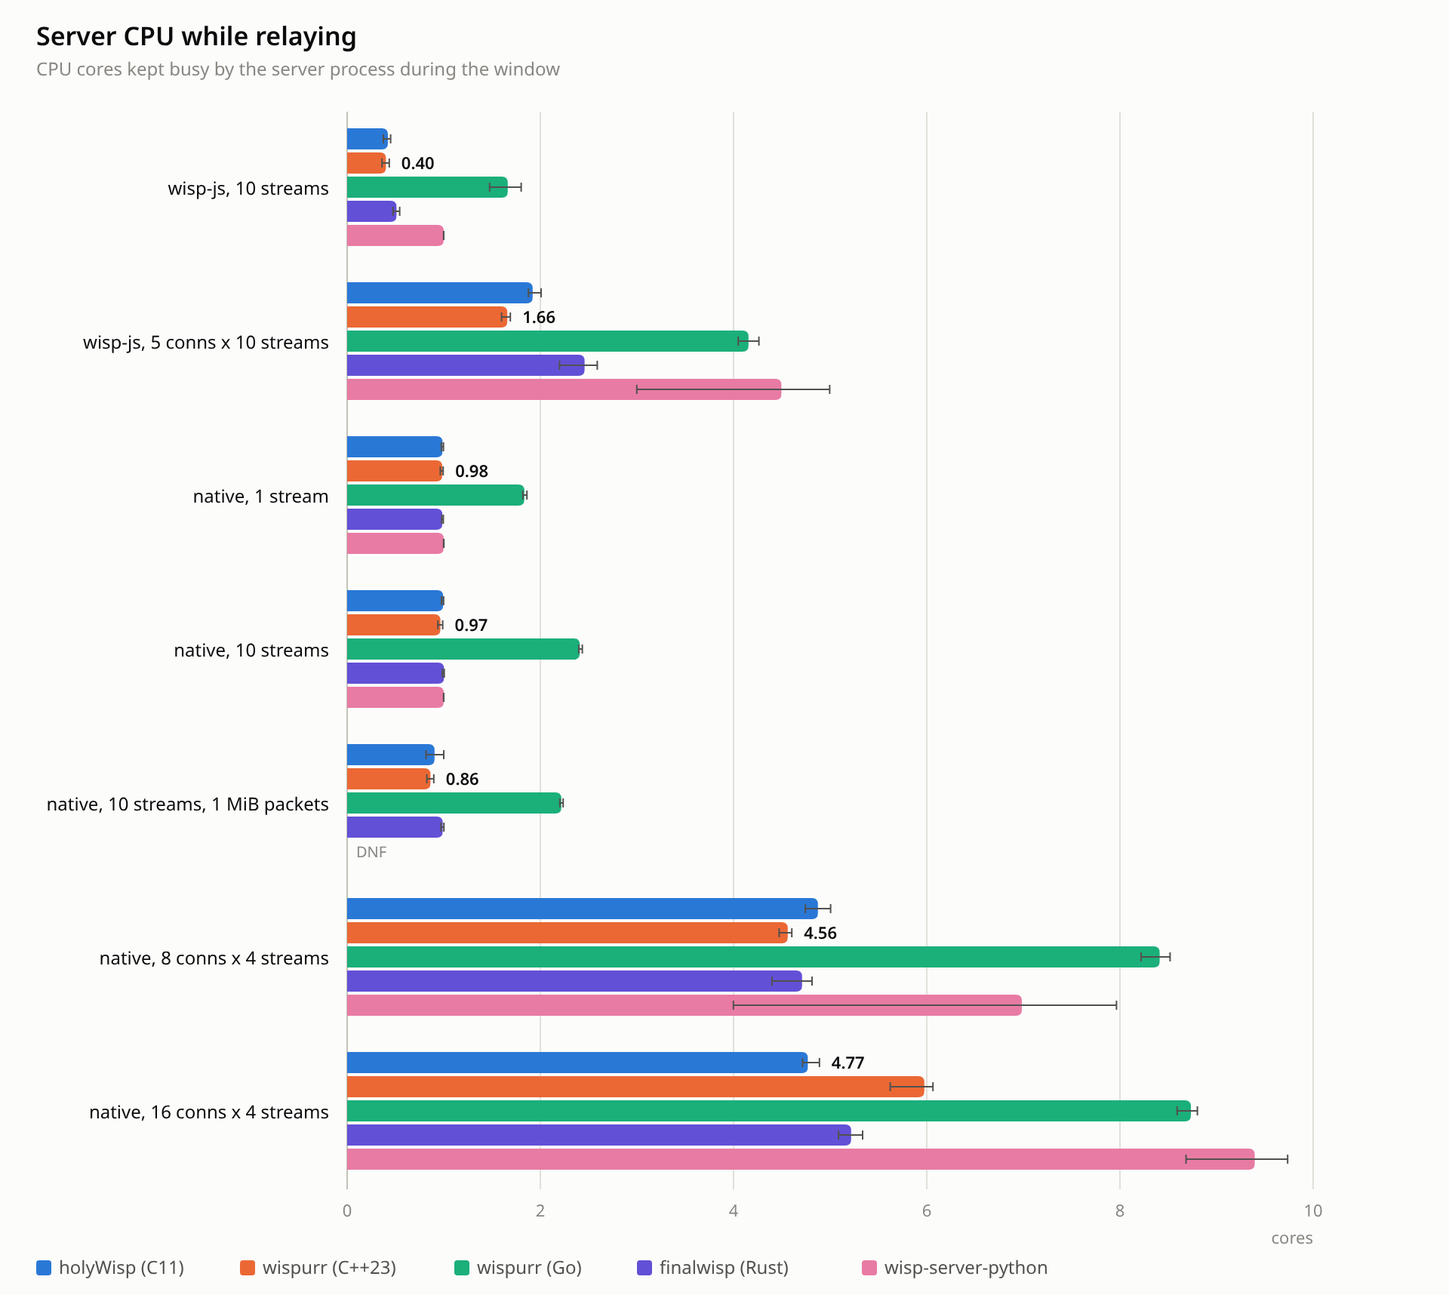
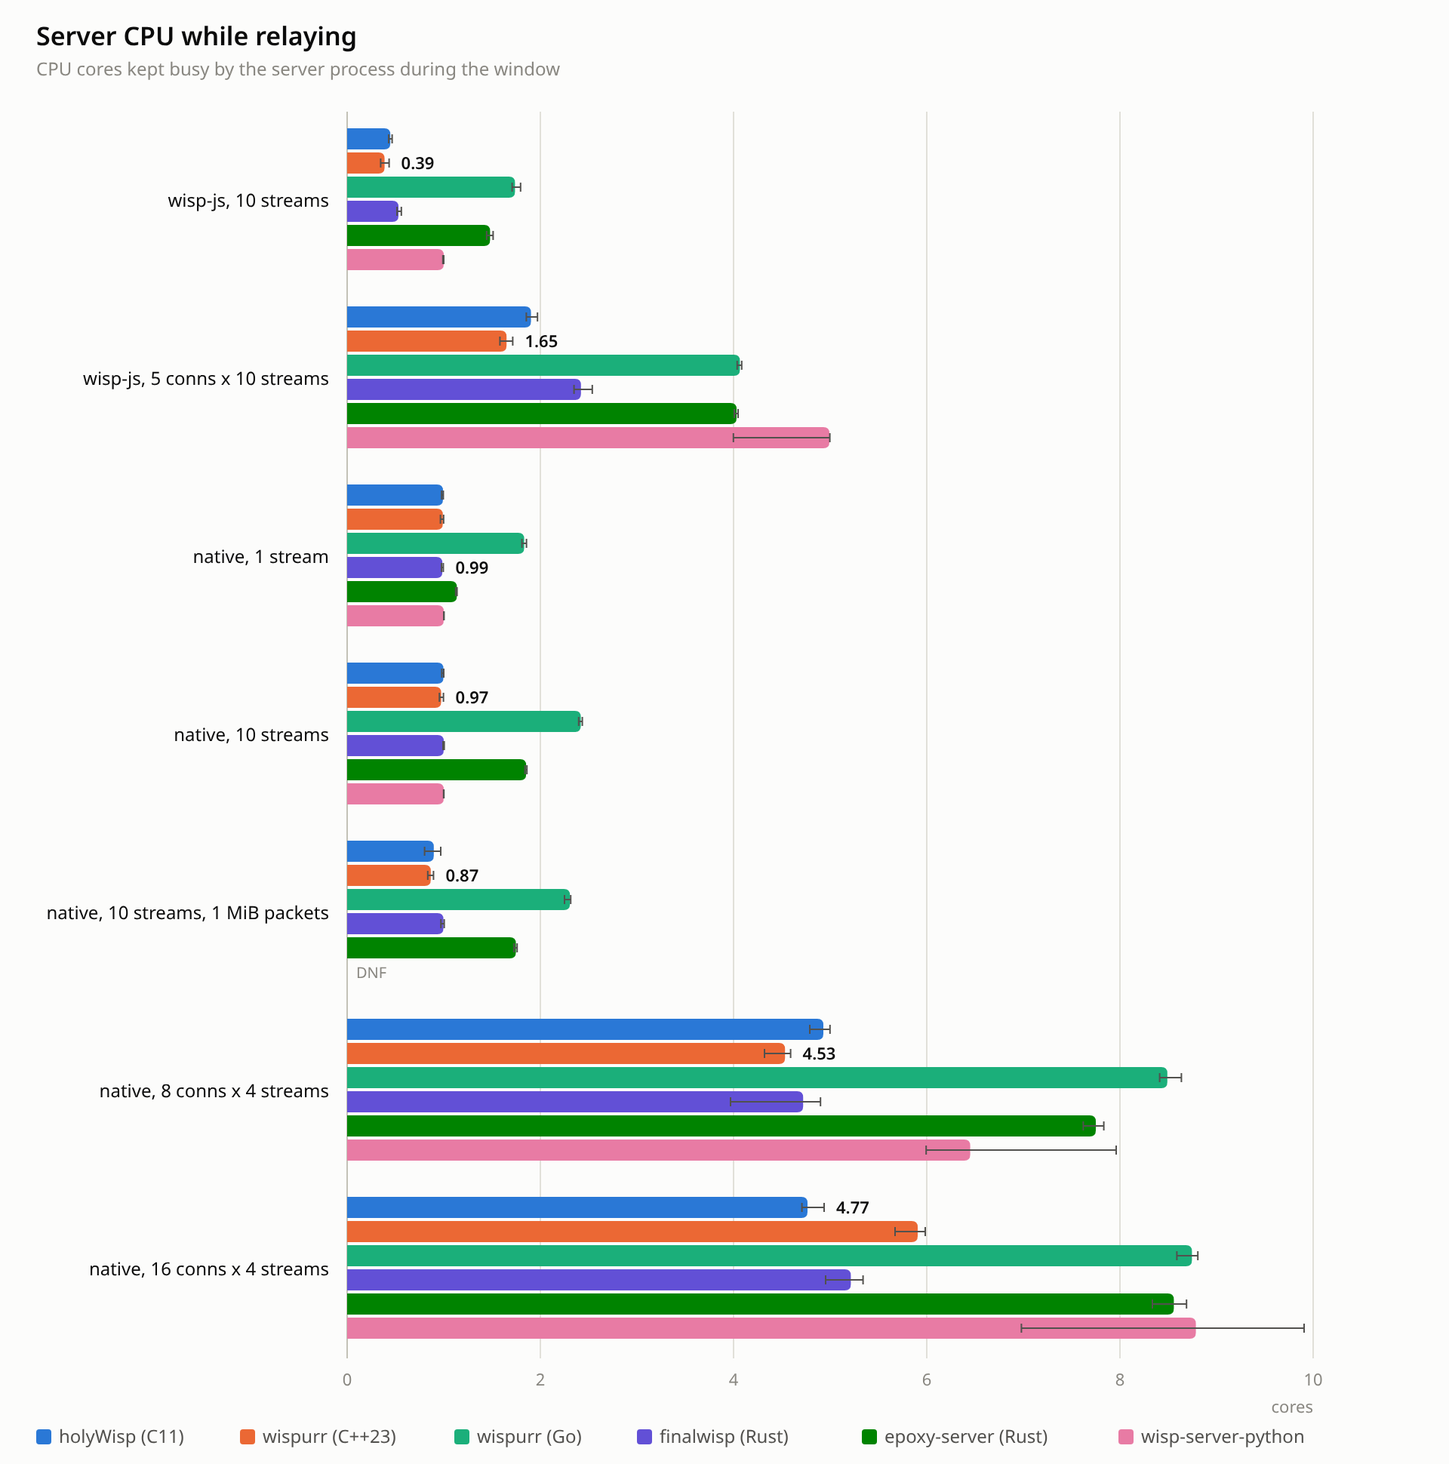
bench: epoxy-server as a sixth server
epoxy-server (epoxy-tls 9cde724, server/) is the Rust Wisp server that
epoxy's client is made for. It runs on its own defaults plus the bind
address, error-level logging and a max_message_size of 1 MiB plus the
Wisp header (configs/epoxy-server-bench.toml): at its default of 64 KiB
one 64 KiB packet from the native client with its 5-byte header is over
the limit, and it closed the connection on every native row.

The charts give it green (slot 6), beside finalwisp; red failed the
palette's normal-vision floor next to the Python server's magenta.

The published run is redone with six servers, twelve 10 s repeats so
each holds every position twice, holyWisp built from 09b75bd.
epoxy-server relays 59 to 69% of the leader's throughput with several
connections, a fifth to a third of it on one, and a fifth of the
leader's streams per second under churn, at 320 to 750 MiB per
CPU-second against holyWisp's 1,700 to 2,600; its memory reached 2 GiB
under churn. Among the rest, holyWisp leads with 8 connections and on
churn by 2%, finalwisp with 16 connections by 8%, and the C++23 wispurr
with one stream by 10%.

diff --git a/bench/charts.py b/bench/charts.py
@@ -19,13 +19,15 @@ import sys
 # Categorical slots in fixed order; the two primary rivals and the Go port take the three
 # all-pairs-safe slots, the holyWisp variant takes slot 4. finalwisp came later and wears violet
 # (slot 7), placed between the Go port and the Python server: the only spare hue and position
-# that the palette validator passes next to its neighbours in both themes.
-SERVER_ORDER = ["holywisp", "wispurr-cpp", "wispurr-go", "holywisp-sockbuf", "finalwisp", "wisp-python"]
+# that the palette validator passes next to its neighbours in both themes. epoxy-server, the other
+# Rust server, came after it and wears green (slot 6) beside it: red (slot 8) fails the
+# normal-vision floor next to the Python server's magenta in both themes, green passes everything.
+SERVER_ORDER = ["holywisp", "wispurr-cpp", "wispurr-go", "holywisp-sockbuf", "finalwisp", "epoxy", "wisp-python"]
 SERVER_SLOT = {"holywisp": "s1", "wispurr-cpp": "s2", "wispurr-go": "s3", "holywisp-sockbuf": "s4", "wisp-python": "s5",
-               "finalwisp": "s7"}
-LIGHT = {"s1": "#2a78d6", "s2": "#eb6834", "s3": "#1baf7a", "s4": "#eda100", "s5": "#e87ba4", "s7": "#6250d6",
+               "epoxy": "s6", "finalwisp": "s7"}
+LIGHT = {"s1": "#2a78d6", "s2": "#eb6834", "s3": "#1baf7a", "s4": "#eda100", "s5": "#e87ba4", "s6": "#008300", "s7": "#6250d6",
          "surface": "#fcfcfb", "ink": "#0b0b0b", "ink2": "#52514e", "muted": "#898781", "grid": "#e1e0d9", "axis": "#c3c2b7"}
-DARK = {"s1": "#3987e5", "s2": "#d95926", "s3": "#199e70", "s4": "#c98500", "s5": "#d55181", "s7": "#9085e9",
+DARK = {"s1": "#3987e5", "s2": "#d95926", "s3": "#199e70", "s4": "#c98500", "s5": "#d55181", "s6": "#008300", "s7": "#9085e9",
         "surface": "#1a1a19", "ink": "#f0efec", "ink2": "#c3c2b7", "muted": "#898781", "grid": "#2c2c2a", "axis": "#383835"}
 FONT = 'system-ui, -apple-system, "Segoe UI", sans-serif'
 

diff --git a/bench/run.py b/bench/run.py
@@ -35,7 +35,7 @@ ECHO_PORTS = 8  # the echo service listens on this many consecutive ports (see t
 # ------------------------------------------------------------------------------------- servers
 # Every server gets its "speed" profile: loopback + literal-IP egress allowed (the echo is at
 # 127.0.0.1), flood protection, reputation and per-IP connection limits off, error-level logging,
-# default worker count (= CPUs for all three).
+# default worker count (= CPUs for every server).
 
 HW_COMMON = ["--port", str(WISP_PORT), "--allow-loopback=on", "--allow-direct-ip=on", "--flood-protection=off",
              "--reputation=off", "--connections-limit-per-ip=0", "--connection-window-s=0",
@@ -80,6 +80,16 @@ SERVERS = {
         "cmd": [str(SRC / "finalwisp/server/target/x86_64-unknown-linux-gnu/release/finalwisp"), "--port", str(WISP_PORT),
                 "--allow-loopback", "--allow-private", "--log-level", "error"],
         "cwd": str(SRC / "finalwisp"),
+    },
+    "epoxy": {
+        # epoxy-server from https://github.com/MercuryWorkshop/epoxy-tls (server/), the server
+        # epoxy's own Wisp client is made for, built with `cargo build --release`. Its config is
+        # its defaults (multi-threaded runtime, a 128-packet window, 128 KiB reads) with the bind
+        # address, error-level logging and a 1 MiB message limit: its default of 64 KiB is less than
+        # one of the native client's 64 KiB packets plus its Wisp header, so it refused every row.
+        "label": "epoxy-server (Rust)",
+        "cmd": [str(SRC / "epoxy-tls/target/release/epoxy-server"), str(ROOT / "bench/configs/epoxy-server-bench.toml")],
+        "cwd": str(SRC / "epoxy-tls"),
     },
     "wispurr-cpp": {
         "label": "wispurr (C++23)",

diff --git a/bench/RESULTS.md b/bench/RESULTS.md
@@ -1,35 +1,40 @@
 # Benchmark results
 
-Run on 2026-11-11 (UTC). Charts for every table below are in `charts/`, light and dark.
+Run on 2026-11-12 (UTC). Charts for every table below are in `charts/`, light and dark.
 The method, the exact server and client command lines, and the install notes for each server are in
 [README.md](README.md). Regenerate with `python3 -I bench/run.py` and `python3 -I bench/charts.py`.
 
-The host was a 16-vCPU KVM guest (Xeon Gold 6348, Debian 13.7) that ran nothing else. Servers,
+The host was a 16-vCPU KVM guest (Xeon Gold 6348, Debian 13) that ran nothing else. Servers,
 clients and the echo service shared its 16 cores, so the two rows with many connections are bounded
 by the whole box, not by the server alone.
 
-Each scenario ran ten times with the server order rotated, so every one of the five servers held
+Each scenario ran twelve times with the server order rotated, so every one of the six servers held
 every position in the order twice. The position matters on this host (see "Running it" in the
-README), and the latency table shows it most: a 64 B round trip measured 45 to 50 us for holyWisp,
-finalwisp and the C++23 wispurr when they ran first after the saturating 16-connection scenario,
-and 54 to 91 us in the later positions. The medians in that table sit between those two modes.
+README), and the latency table shows it most: a 64 B round trip measured 45 to 49 us for the four
+fastest servers when they ran first after the saturating 16-connection scenario, and 52 to 59 us in
+the later positions. The medians in that table are from the later mode.
 
-Read differences of a few percent as noise. The repeats of one cell spread widely in some rows: the
-wisp-js 10-stream runs of holyWisp range from 422 to 763 MiB/s and those of the C++23 wispurr from
-441 to 709, and holyWisp's native 10-stream runs from 1,418 to 2,359. The rows with one connection
-are the noisiest on this host; the rows with 8 and 16 connections and the churn row repeat within a
-few percent. Compare servers within a row, not numbers across hosts.
+Read differences of a few percent as noise. The rows with one connection are the noisiest: holyWisp's
+native one-stream runs range from 2,422 to 2,776 MiB/s, finalwisp's from 2,511 to 2,721 and the C++23
+wispurr's from 2,642 to 2,993. The rows with 8 and 16 connections repeat within about 5%, except
+finalwisp's 8-connection runs (9,051 to 10,196). In the churn row one of finalwisp's twelve runs
+measured 153,219 lifecycles/s against 236,000 to 279,000 for the rest; the median is not moved by
+it. Compare servers within a row, not numbers across hosts.
 
 The churn scenario dials eight echo ports, one per connection; the README explains why.
 
-holyWisp was a release build of the working tree on top of `5d01e8f` (0.5.3, with DATA frames
-toward the client capped at 128 KiB and new connections placed on the least loaded worker), not of
-a commit.
+epoxy-server runs with its own defaults except for three settings in
+`configs/epoxy-server-bench.toml`: the bind address, error-level logging, and a `max_message_size`
+of 1 MiB plus the Wisp header. Its default of 64 KiB is smaller than one 64 KiB packet from the
+native client with its 5-byte header, and it closes the connection on the first one.
+
+holyWisp was a release build of `09b75bd` (0.5.3).
 
 | | version |
 | --- | --- |
-| holyWisp | holywisp 0.5.3, release build |
+| holyWisp | holywisp 0.5.3, `09b75bd`, release build |
 | finalwisp | 341dcf7a, rustc 1.100.0-nightly (f248f4038 2026-09-05), x86_64-unknown-linux-gnu +crt-static, pool allocator |
+| epoxy-server | epoxy-tls 9cde724 (`server/`), rustc 1.100.0-nightly, `cargo build --release` |
 | wispurr (C++23) | g++ (Debian 14.2.0-19) 14.2.0 |
 | wispurr (Go) | 36de32e, go1.26.4 linux/amd64 |
 | wisp-server-python | deeb390, Python 3.13.5, websockets 13.1 |
@@ -38,55 +43,60 @@ a commit.
 
 ```
 CPU: Intel(R) Xeon(R) Gold 6348 CPU @ 2.60GHz (x16)
-Test duration: 10s x 10 (median)
+Test duration: 10s x 12 (median)
 ```
 
 ### Throughput (MiB/s through the echo port)
 
 | server | wisp-js, 10 streams | wisp-js, 5 conns x 10 streams | native, 1 stream | native, 10 streams | native, 10 streams, 1 MiB packets | native, 8 conns x 4 streams | native, 16 conns x 4 streams |
 |---|---|---|---|---|---|---|---|
-| holyWisp (C11) | 525 | 3,141 | 2,281 | 1,476 | 1,831 | 9,592 | 8,200 |
-| wispurr (Go) | 649 | 3,045 | 1,611 | 1,047 | 995 | 5,035 | 4,635 |
-| wisp-server-python | 321 | 1,443 | 398 | 281 | DNF | 2,962 | 3,133 |
-| finalwisp (Rust) | 587 | 3,102 | 2,418 | 1,719 | 1,809 | 9,155 | 8,876 |
-| wispurr (C++23) | 579 | 2,592 | 2,763 | 1,796 | 1,933 | 8,399 | 6,689 |
+| holyWisp (C11) | 794 | 3,217 | 2,588 | 2,204 | 2,125 | 9,746 | 8,378 |
+| finalwisp (Rust) | 781 | 3,248 | 2,583 | 2,105 | 2,133 | 9,533 | 9,055 |
+| epoxy-server (Rust) | 474 | 2,153 | 581 | 615 | 739 | 5,773 | 6,289 |
+| wispurr (C++23) | 690 | 2,715 | 2,856 | 2,142 | 2,171 | 8,534 | 6,844 |
+| wispurr (Go) | 752 | 3,098 | 1,843 | 1,510 | 1,263 | 5,178 | 4,693 |
+| wisp-server-python | 427 | 1,634 | 420 | 389 | DNF | 2,715 | 3,137 |
 
 ### Server CPU cores busy during the throughput tests
 
 | server | wisp-js, 10 streams | wisp-js, 5 conns x 10 streams | native, 1 stream | native, 10 streams | native, 10 streams, 1 MiB packets | native, 8 conns x 4 streams | native, 16 conns x 4 streams |
 |---|---|---|---|---|---|---|---|
-| holyWisp (C11) | 0.42 | 1.92 | 0.99 | 0.99 | 0.90 | 4.87 | 4.77 |
-| wispurr (Go) | 1.66 | 4.15 | 1.83 | 2.41 | 2.22 | 8.41 | 8.73 |
-| wisp-server-python | 1.00 | 4.49 | 1.00 | 1.00 | DNF | 6.98 | 9.40 |
-| finalwisp (Rust) | 0.51 | 2.46 | 0.99 | 1.00 | 0.99 | 4.71 | 5.22 |
-| wispurr (C++23) | 0.40 | 1.66 | 0.98 | 0.97 | 0.86 | 4.56 | 5.98 |
+| holyWisp (C11) | 0.45 | 1.90 | 0.99 | 1.00 | 0.90 | 4.93 | 4.77 |
+| finalwisp (Rust) | 0.53 | 2.42 | 0.99 | 1.00 | 1.00 | 4.72 | 5.21 |
+| epoxy-server (Rust) | 1.48 | 4.03 | 1.14 | 1.85 | 1.75 | 7.75 | 8.56 |
+| wispurr (C++23) | 0.39 | 1.65 | 0.99 | 0.97 | 0.87 | 4.53 | 5.91 |
+| wispurr (Go) | 1.74 | 4.06 | 1.83 | 2.42 | 2.31 | 8.49 | 8.75 |
+| wisp-server-python | 1.00 | 4.99 | 1.00 | 1.00 | DNF | 6.45 | 8.79 |
 
 ### MiB relayed per server CPU-second (efficiency)
 
 | server | wisp-js, 10 streams | wisp-js, 5 conns x 10 streams | native, 1 stream | native, 10 streams | native, 10 streams, 1 MiB packets | native, 8 conns x 4 streams | native, 16 conns x 4 streams |
 |---|---|---|---|---|---|---|---|
-| holyWisp (C11) | 1,249 | 1,601 | 2,312 | 1,482 | 2,019 | 1,990 | 1,722 |
-| wispurr (Go) | 390 | 735 | 874 | 432 | 449 | 598 | 529 |
-| wisp-server-python | 321 | 344 | 398 | 281 | DNF | 393 | 334 |
-| finalwisp (Rust) | 1,199 | 1,268 | 2,457 | 1,715 | 1,822 | 1,977 | 1,694 |
-| wispurr (C++23) | 1,527 | 1,571 | 2,795 | 1,861 | 2,283 | 1,854 | 1,119 |
+| holyWisp (C11) | 1,786 | 1,701 | 2,620 | 2,203 | 2,414 | 2,010 | 1,748 |
+| finalwisp (Rust) | 1,489 | 1,350 | 2,633 | 2,106 | 2,161 | 2,020 | 1,744 |
+| epoxy-server (Rust) | 319 | 534 | 514 | 332 | 422 | 745 | 736 |
+| wispurr (C++23) | 1,810 | 1,655 | 2,878 | 2,189 | 2,466 | 1,903 | 1,158 |
+| wispurr (Go) | 433 | 765 | 1,008 | 624 | 547 | 612 | 539 |
+| wisp-server-python | 427 | 342 | 420 | 390 | DNF | 405 | 355 |
 
 ### Round-trip latency, 64 B echo, one stream (us)
 
 | server | p50 | p90 | p99 | p99.9 | mean | round trips/s |
 |---|---|---|---|---|---|---|
-| holyWisp (C11) | 70.00 | 91.00 | 125 | 266 | 73.02 | 13,812 |
-| wispurr (Go) | 122 | 161 | 356 | 652 | 128 | 7,740 |
-| wisp-server-python | 170 | 209 | 432 | 810 | 178 | 5,563 |
-| finalwisp (Rust) | 69.50 | 90.00 | 123 | 270 | 72.31 | 13,738 |
-| wispurr (C++23) | 79.00 | 96.50 | 132 | 280 | 76.97 | 12,886 |
+| holyWisp (C11) | 53.00 | 61.00 | 89.00 | 128 | 55.86 | 17,739 |
+| finalwisp (Rust) | 54.00 | 64.00 | 90.50 | 136 | 55.89 | 17,728 |
+| epoxy-server (Rust) | 58.00 | 67.50 | 92.00 | 136 | 60.05 | 16,505 |
+| wispurr (C++23) | 53.00 | 62.50 | 90.00 | 133 | 55.60 | 17,824 |
+| wispurr (Go) | 80.00 | 102 | 162 | 318 | 84.01 | 11,794 |
+| wisp-server-python | 156 | 174 | 219 | 360 | 154 | 6,434 |
 
 ### Stream churn (open + 1 B echo + close, lifecycles/s)
 
 | server | stream churn, 8 conns x 32 in flight | server cores | peak RSS MiB |
 |---|---|---|---|
-| holyWisp (C11) | 253,298 | 6.94 | 3.76 |
-| wispurr (Go) | 127,003 | 9.49 | 916 |
-| wisp-server-python | 36,568 | 5.98 | 503 |
-| finalwisp (Rust) | 216,112 | 5.76 | 3.42 |
-| wispurr (C++23) | 228,157 | 6.69 | 46.21 |
+| holyWisp (C11) | 257,594 | 7.04 | 3.77 |
+| finalwisp (Rust) | 251,411 | 6.46 | 3.38 |
+| epoxy-server (Rust) | 56,915 | 6.10 | 2,085 |
+| wispurr (C++23) | 236,038 | 6.80 | 53.07 |
+| wispurr (Go) | 137,431 | 9.62 | 878 |
+| wisp-server-python | 37,283 | 5.98 | 506 |

diff --git a/README.md b/README.md
@@ -252,37 +252,42 @@ differs from wispurr. `make npm` builds the package and `make npm-test` runs its
 
 ## Benchmarks
 
-`bench/` holds a wispmark-style harness that runs holyWisp, finalwisp, both wispurr implementations
-and wisp-server-python on the same host, through the same echo service, driven by the same clients.
-Full tables are in [bench/RESULTS.md](bench/RESULTS.md); the method and how to rerun it are in
-[bench/README.md](bench/README.md). These are the medians of ten 10 s runs on a 16-vCPU Xeon
-Gold 6348 VM that ran nothing else, in MiB/s through the echo port, with the best server in each
-row in bold.
+`bench/` holds a wispmark-style harness that runs holyWisp, finalwisp, epoxy-server, both wispurr
+implementations and wisp-server-python on the same host, through the same echo service, driven by
+the same clients. Full tables are in [bench/RESULTS.md](bench/RESULTS.md); the method and how to
+rerun it are in [bench/README.md](bench/README.md). These are the medians of twelve 10 s runs on a
+16-vCPU Xeon Gold 6348 VM that ran nothing else, in MiB/s through the echo port, with the best
+server in each row in bold.
 
-| scenario | holyWisp | finalwisp | wispurr C++23 | wispurr Go | wisp-server-python |
-| --- | --- | --- | --- | --- | --- |
-| wisp-js, 10 streams | 525 | 587 | 579 | **649** | 321 |
-| wisp-js, 5 connections x 10 streams | **3,141** | 3,102 | 2,592 | 3,045 | 1,443 |
-| native client, 1 stream | 2,281 | 2,418 | **2,763** | 1,611 | 398 |
-| native client, 10 streams | 1,476 | 1,719 | **1,796** | 1,047 | 281 |
-| native client, 10 streams, 1 MiB packets | 1,831 | 1,809 | **1,933** | 995 | did not finish |
-| native client, 8 connections x 4 streams | **9,592** | 9,155 | 8,399 | 5,035 | 2,962 |
-| native client, 16 connections x 4 streams | 8,200 | **8,876** | 6,689 | 4,635 | 3,133 |
-| 64 B round trip, p50 / p99 | 70 / 125 us | **69.5 / 123 us** | 79 / 132 us | 122 / 356 us | 170 / 432 us |
-| stream churn, lifecycles/s (server cores) | **253,298** (6.9) | 216,112 (5.8) | 228,157 (6.7) | 127,003 (9.5) | 36,568 (6.0) |
-| peak RSS under stream churn | 3.8 MiB | **3.4 MiB** | 46 MiB | 916 MiB | 503 MiB |
+| scenario | holyWisp | finalwisp | wispurr C++23 | wispurr Go | epoxy-server | wisp-server-python |
+| --- | --- | --- | --- | --- | --- | --- |
+| wisp-js, 10 streams | **794** | 781 | 690 | 752 | 474 | 427 |
+| wisp-js, 5 connections x 10 streams | 3,217 | **3,248** | 2,715 | 3,098 | 2,153 | 1,634 |
+| native client, 1 stream | 2,588 | 2,583 | **2,856** | 1,843 | 581 | 420 |
+| native client, 10 streams | **2,204** | 2,105 | 2,142 | 1,510 | 615 | 389 |
+| native client, 10 streams, 1 MiB packets | 2,125 | 2,133 | **2,171** | 1,263 | 739 | did not finish |
+| native client, 8 connections x 4 streams | **9,746** | 9,533 | 8,534 | 5,178 | 5,773 | 2,715 |
+| native client, 16 connections x 4 streams | 8,378 | **9,055** | 6,844 | 4,693 | 6,289 | 3,137 |
+| 64 B round trip, p50 / p99 | **53 / 89 us** | 54 / 90.5 us | 53 / 90 us | 80 / 162 us | 58 / 92 us | 156 / 219 us |
+| stream churn, lifecycles/s (server cores) | **257,594** (7.0) | 251,411 (6.5) | 236,038 (6.8) | 137,431 (9.6) | 56,915 (6.1) | 37,283 (6.0) |
+| peak RSS under stream churn | 3.8 MiB | **3.4 MiB** | 53 MiB | 878 MiB | 2,085 MiB | 506 MiB |
 
 holyWisp, finalwisp and the C++23 wispurr are the three fastest servers here, and each leads
-somewhere. holyWisp leads with 8 connections by 5% and at opening and closing streams by 11%.
-finalwisp leads with 16 connections by 8%, where all 16 cores are busy; holyWisp and finalwisp
-relay about 1,700 MiB per CPU-second there, the C++23 wispurr 1,119. The two are level on the round
-trip, and both stay under 4 MiB of memory under churn. The C++23 wispurr leads on one connection:
-by 14% over finalwisp and 21% over holyWisp with one stream. Those rows are the noisiest on this
-host (holyWisp's 10-stream runs span 1,418 to 2,359 MiB/s), and with 10 streams or 1 MiB packets
-the three are within each other's spread. Behind wisp-js the row with 10 streams does not separate
-the four compiled servers: their medians differ by up to 24%, but every one of them has runs from
-under 500 to over 700 MiB/s. With five connections holyWisp, finalwisp and the Go wispurr are within
-3% of each other.
+somewhere. holyWisp leads with 8 connections by 2% and at opening and closing streams by 2% over
+finalwisp and 9% over the C++23 wispurr; the first is inside finalwisp's spread (9,051 to 10,196
+MiB/s). finalwisp leads with 16 connections by 8%, where all 16 cores are busy. The C++23 wispurr
+leads with one stream by 10%; holyWisp's runs there span 2,422 to 2,776 MiB/s and its 2,642 to
+2,993. With 10 streams, with 1 MiB packets and behind one wisp-js connection the three are within
+each other's spread; with five wisp-js connections holyWisp, finalwisp and the Go wispurr are, and
+the C++23 wispurr is 16% behind. holyWisp, finalwisp, the C++23 wispurr and epoxy-server are within
+5 us of each other on the median round trip, and holyWisp and finalwisp both stay under 4 MiB of
+memory under churn.
+
+epoxy-server, the Rust server that epoxy's Wisp client is made for, relays 59 to 69% of the
+leader's throughput with several connections, a fifth to a third of it on one connection, and a
+fifth of the leader's streams per second under churn. It relays 320 to 750 MiB per CPU-second
+where holyWisp relays 1,700 to 2,600, and its memory reached 2 GiB under churn.
+
 The round-trip figure depends on where in the run order a server was measured;
 [bench/RESULTS.md](bench/RESULTS.md) breaks that down. Results move with the host: an earlier run
 on a desktop Ryzen 9 7950X ranked several of these rows differently.

diff --git a/bench/README.md b/bench/README.md
@@ -52,6 +52,13 @@ and rebuild `RESULTS.md` from `results/full/results.md` plus the version table a
   built with its own `bench/release.sh` (a static release build with its pinned nightly toolchain),
   run as `finalwisp --allow-loopback --allow-private --log-level error`, the way its own harness
   starts it. Its limits are off by default.
+- `epoxy` is `epoxy-server` from [epoxy-tls](https://github.com/MercuryWorkshop/epoxy-tls), the
+  server that epoxy's Wisp client is made for, cloned to `~/src/epoxy-tls` and built with `cargo
+  build --release` in `server/` (the repository pins a nightly toolchain). It reads
+  `configs/epoxy-server-bench.toml`: its defaults plus the bind address, error-level logging and a
+  `max_message_size` of 1 MiB plus the Wisp header. Its default of 64 KiB is smaller than one
+  64 KiB packet from the native client with its 5-byte header, so out of the box it closes the
+  connection on the first one.
 
 The wisp-js client is wispmark's own `client/js/client.mjs`. Clone wispmark to `~/src/wispmark`
 and run `npm install` in `client/js`.
@@ -60,7 +67,7 @@ and run `npm install` in `client/js`.
 
 ```sh
 make bench                                  # release build plus build/bench/{echo,pump}
-python3 -I bench/run.py --duration 10 --repeats 8 --out bench/results/full
+python3 -I bench/run.py --duration 10 --repeats 12 --out bench/results/full
 python3 -I bench/charts.py bench/results/full --png
 ```
 
@@ -70,9 +77,10 @@ scenario inherits the state the previous scenario left the host in. On the 16-vC
 published numbers come from, the server that ran first after a light scenario was 6 to 10% slower
 with 8 connections for most of its window, and the one that ran first after the saturating
 16-connection scenario measured a 47 us median round trip against 75 to 87 us for the same server
-one slot later. So use a repeat count that is a multiple of the number of servers (4 gives every
-server every slot once, 8 also balances which server it follows); with any other count the
-medians favour or penalise whoever held the first slot more often.
+one slot later. So use a repeat count that is a multiple of the number of servers (with the six servers
+of the published run, 6 gives every server every slot once and 12, which it used, gives each slot
+twice and also balances which server it follows); with any other count the medians favour or
+penalise whoever held the first slot more often.
 
 Use `--only holywisp,wispurr-cpp` or `--scenarios native-10,rtt-64` to run part of the matrix,
 and `--replace` with `--only` to re-measure one server and splice it into an existing results
